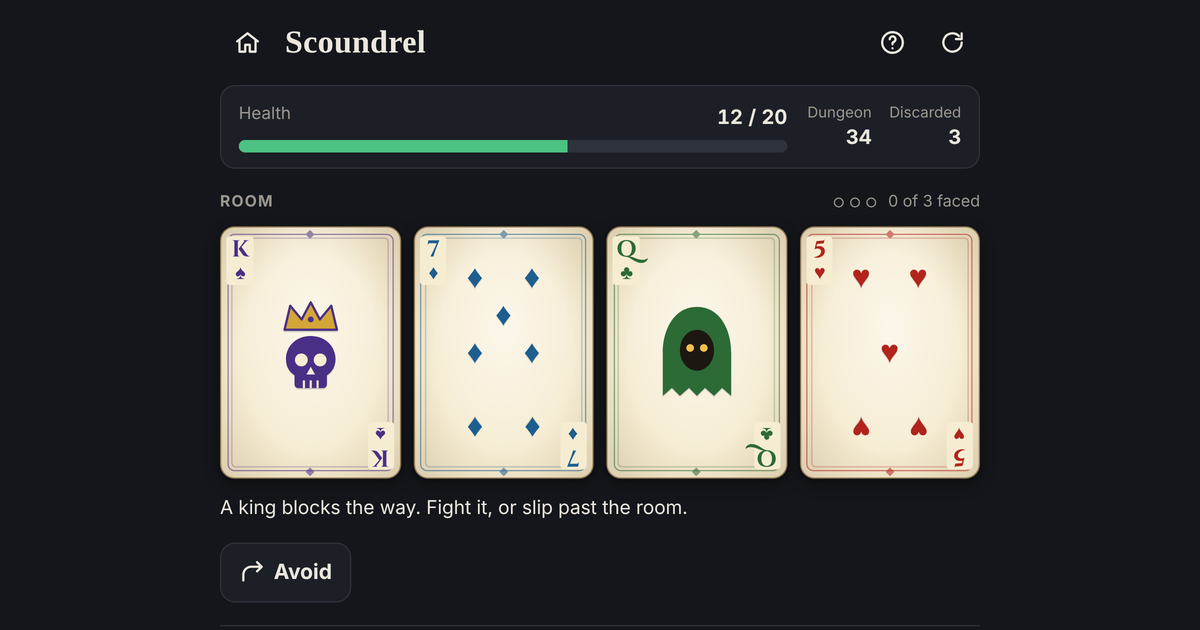
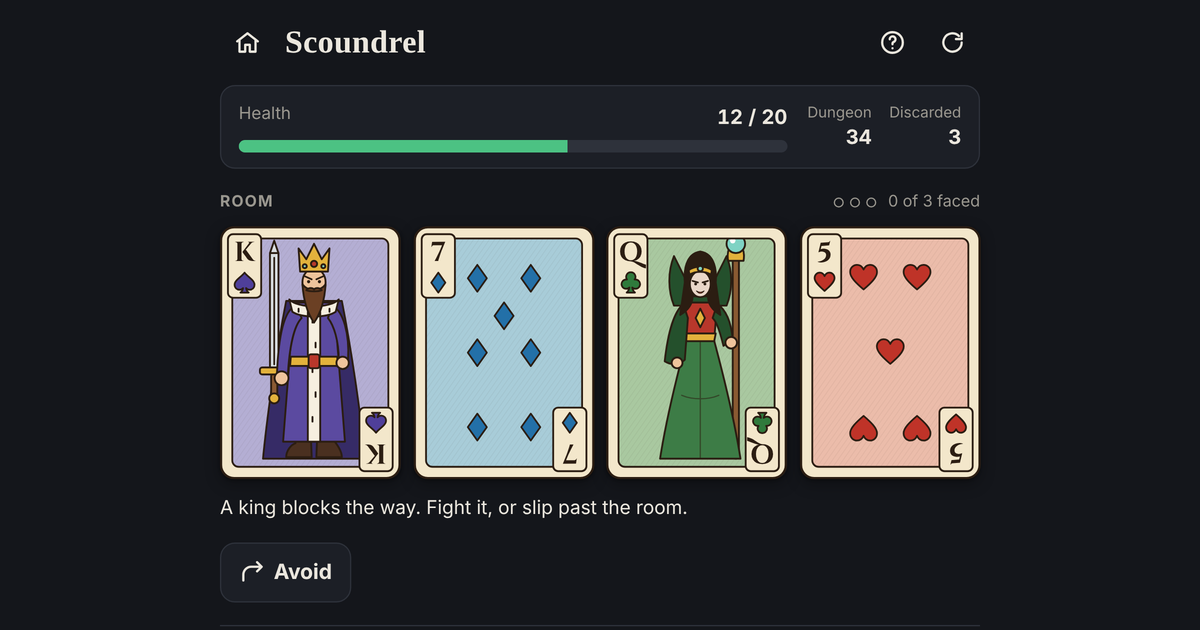
Refresh the Scoundrel screenshot for the storybook-style cards
Claude-Session: https://claude.ai/code/session_01EyWja9cuKQcf59DwuVBpVV

Changed region(s): [[0.185, 0.3317, 0.8325, 0.7841]]

diff --git a/src/data/research.ts b/src/data/research.ts
@@ -30,8 +30,8 @@ export const posts: Post[] = [
     description: "Play Scoundrel, the solo dungeon crawler played with a deck of cards, in your browser on a phone or a computer, with shared high scores.",
     chips: ["Card game", "Svelte", "Cloudflare Workers", "Cloudflare D1"],
     image: {
-      alt: "The game on a computer screen: a health bar at 12 of 20 over a room of four fantasy cards, a crowned-skull King of spades, the 7 of diamonds, a hooded-wraith Queen of clubs and the 5 of hearts",
-      previewAlt: "The Scoundrel card game on a computer screen, with a room of four fantasy cards",
+      alt: "The game on a computer screen: a health bar at 12 of 20 over a room of four storybook-style cards: a bearded King of spades holding a sword, the 7 of diamonds, a Queen of clubs drawn as a sorceress with a staff, and the 5 of hearts",
+      previewAlt: "The Scoundrel card game on a computer screen, with a room of four storybook-style playing cards",
     },
     link: { label: "Code", href: "https://github.com/amkashyap1220/SimpleScoundrel" },
   },
